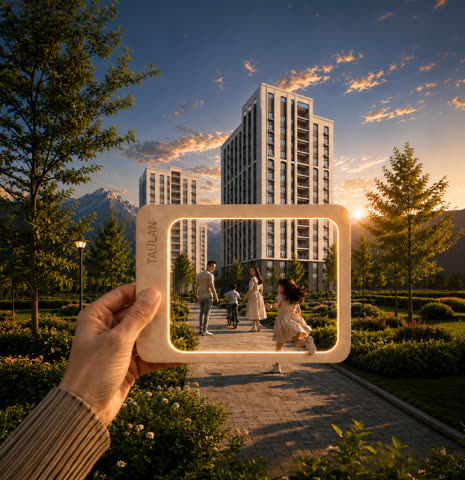
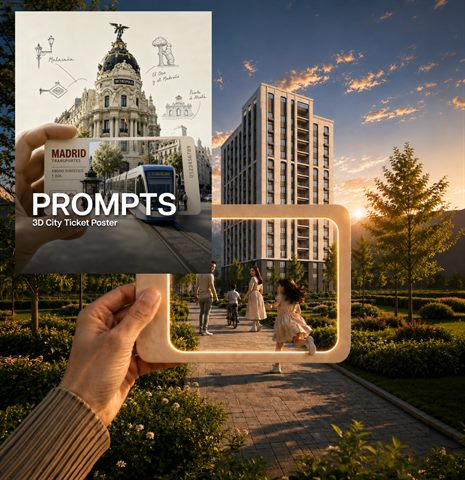
upd

diff --git a/media-variants.js b/media-variants.js
@@ -35,5 +35,9 @@ const mediaVariants = {
   "assets/project06.mp4": {
     "poster": "assets/previews/project06.jpg",
     "preview": "assets/previews/project06.mp4"
+  },
+  "assets/project01-3.jpg?v=20260909-2": {
+    "poster": "assets/previews/project01-3.jpg?v=20260909-2",
+    "preview": "assets/previews/project01-3.jpg?v=20260909-2"
   }
 };
